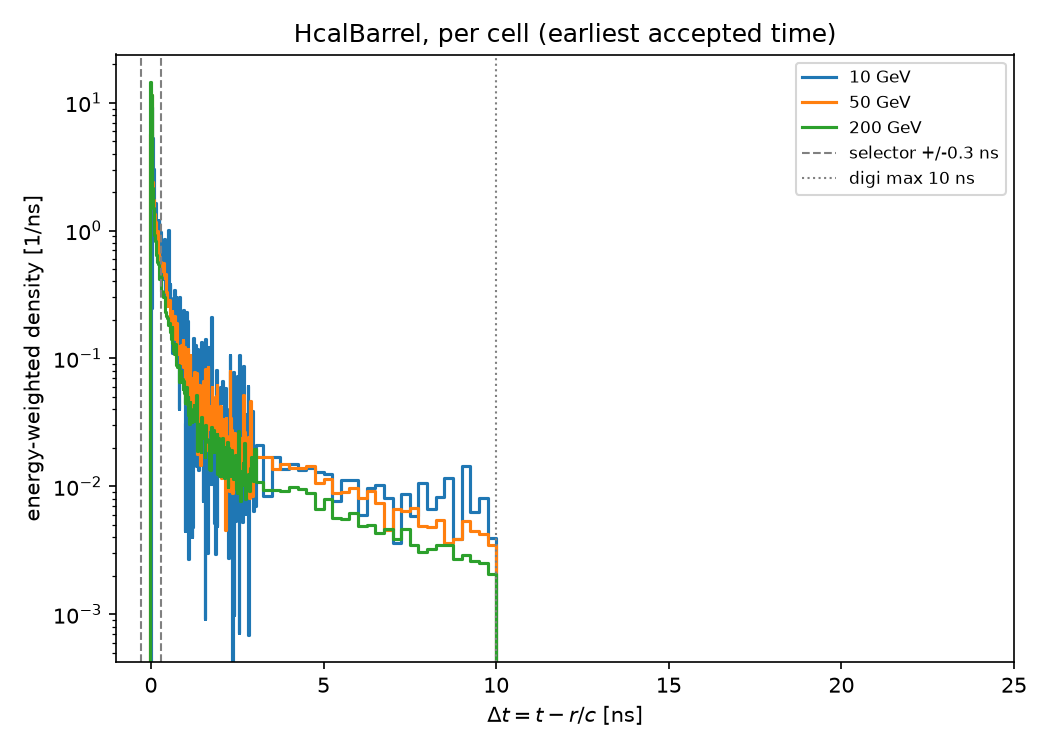
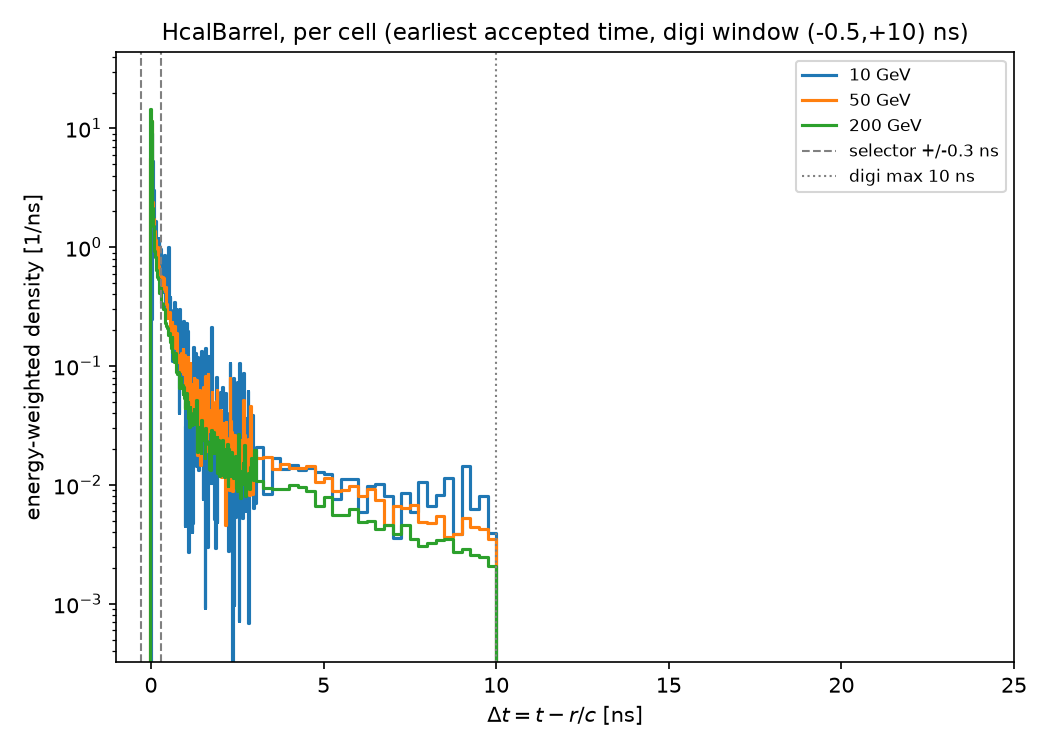
Add no-digi-cut cell-earliest dt spectra with axes locked to the contribution-level plots
New dthist_cellearliest_nodigi histograms (cell time = earliest
contribution, full cell energy, no digi window) and shared x/y ranges
across the three dt-spectrum variants per region, so the effect of the
earliest-time mapping on the underlying distribution is directly visible.

Claude-Session: https://claude.ai/code/session_01QfkMtYniJDh3tYADrTGibX

diff --git a/timing_studies/analysis/plot_distributions.py b/timing_studies/analysis/plot_distributions.py
@@ -42,8 +42,25 @@ def main():
     stems = sorted({k.split("__")[0] for k in d if "__dthist_" in k},
                    key=lambda s: (len(s), s))
 
-    for level, title in (("contrib", "per contribution"),
-                         ("cellearliest", "per cell (earliest accepted time)")):
+    LEVELS = (("contrib", "per contribution (no cuts)"),
+              ("cellearliest_nodigi", "per cell, earliest contribution (no digi cut)"),
+              ("cellearliest", "per cell (earliest accepted time, digi window (-0.5,+10) ns)"))
+
+    # identical y scale across all levels of a region -> directly comparable
+    ylims = {}
+    for region in cm.REGIONS:
+        lo, hi = np.inf, 0.0
+        for level, _ in LEVELS:
+            for stem in stems:
+                key = f"{stem}__dthist_{level}_{region}"
+                if key in d and d[key].sum() > 0:
+                    h = d[key] / d[key].sum() / widths
+                    pos = h[h > 0]
+                    lo, hi = min(lo, pos.min()), max(hi, pos.max())
+        if hi > 0:
+            ylims[region] = (lo * 0.5, hi * 3)
+
+    for level, title in LEVELS:
         for region in cm.REGIONS:
             fig, ax = plt.subplots(figsize=(7, 5))
             found = False
@@ -64,9 +81,11 @@ def main():
             ax.set_yscale("log")
             ax.set_xlabel(r"$\Delta t = t - r/c$ [ns]")
             ax.set_ylabel("energy-weighted density [1/ns]")
-            ax.set_title(f"{region}, {title}")
+            ax.set_title(f"{region}, {title}", fontsize=11)
             ax.legend(fontsize=8)
             ax.set_xlim(bins[0], 25)
+            if region in ylims:
+                ax.set_ylim(*ylims[region])
             fig.tight_layout()
             out = os.path.join(args.outdir, f"dt_{level}_{region}.png")
             fig.savefig(out, dpi=150)

diff --git a/timing_studies/analysis/emulate.py b/timing_studies/analysis/emulate.py
@@ -127,6 +127,13 @@ def run_scan(flat, ecal_map, digi_min_scan, digi_max_scan):
             hw2, _ = np.histogram(t_cell[has], bins=DT_BINS,
                                   weights=e_win[has])
             res[f"dthist_cellearliest_{region}"] = hw2
+            # same cell-earliest construction but with NO digi window at all:
+            # cell time = earliest contribution, energy = full cell energy -
+            # directly comparable to the contribution-level spectrum
+            e_all, t_first, has_all = windowed_vectorized(rd, -np.inf, np.inf)
+            hw3, _ = np.histogram(t_first[has_all], bins=DT_BINS,
+                                  weights=e_all[has_all])
+            res[f"dthist_cellearliest_nodigi_{region}"] = hw3
 
     return res, grids
 
